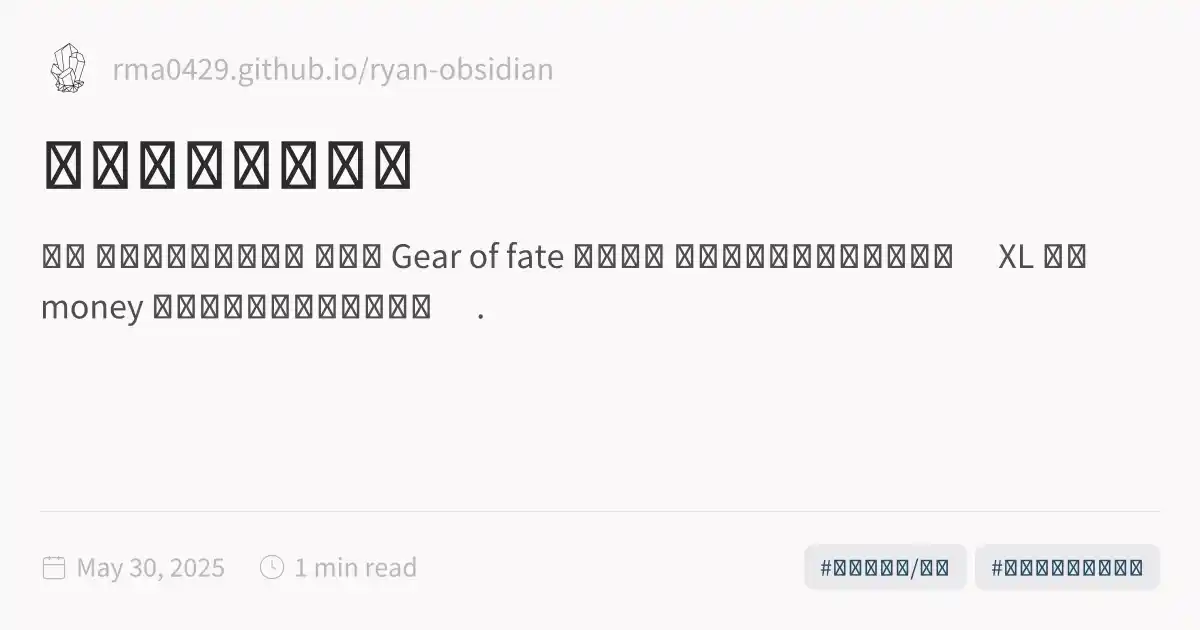
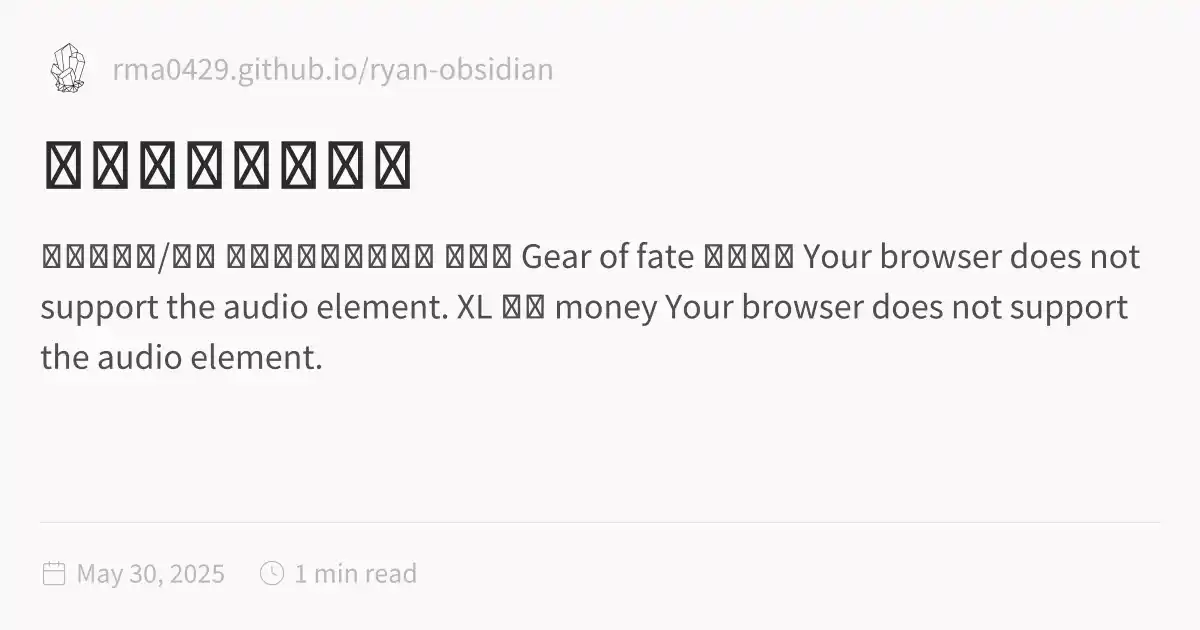
Deploy updated site

diff --git a/樂利錄音室作品集.html b/樂利錄音室作品集.html
@@ -1,5 +1,5 @@
 <!DOCTYPE html>
-<html lang="en"><head><title>樂利錄音室作品集</title><meta charset="utf-8"/><link rel="preconnect" href="https://fonts.googleapis.com"/><link rel="preconnect" href="https://fonts.gstatic.com"/><link rel="stylesheet" href="https://fonts.googleapis.com/css2?family=Schibsted Grotesk:wght@400;700&amp;family=Source Sans Pro:ital,wght@0,400;0,600;1,400;1,600&amp;family=IBM Plex Mono:wght@400;600&amp;display=swap"/><link rel="preconnect" href="https://cdnjs.cloudflare.com" crossorigin="anonymous"/><meta name="viewport" content="width=device-width, initial-scale=1.0"/><meta name="og:site_name" content="Ryan-Obsidian"/><meta property="og:title" content="樂利錄音室作品集"/><meta property="og:type" content="website"/><meta name="twitter:card" content="summary_large_image"/><meta name="twitter:title" content="樂利錄音室作品集"/><meta name="twitter:description" content="單曲 已發行影視遊戲配樂 交響樂 Gear of fate 命運齒輪 您的瀏覽器不支援音頻播放。 XL 中性 money 您的瀏覽器不支援音頻播放。 ."/><meta property="og:description" content="單曲 已發行影視遊戲配樂 交響樂 Gear of fate 命運齒輪 您的瀏覽器不支援音頻播放。 XL 中性 money 您的瀏覽器不支援音頻播放。 ."/><meta property="og:image:alt" content="單曲 已發行影視遊戲配樂 交響樂 Gear of fate 命運齒輪 您的瀏覽器不支援音頻播放。 XL 中性 money 您的瀏覽器不支援音頻播放。 ."/><meta property="twitter:domain" content="rma0429.github.io/ryan-obsidian"/><meta property="og:url" content="https://rma0429.github.io/ryan-obsidian/樂利錄音室作品集"/><meta property="twitter:url" content="https://rma0429.github.io/ryan-obsidian/樂利錄音室作品集"/><link rel="icon" href="./static/icon.png"/><meta name="description" content="單曲 已發行影視遊戲配樂 交響樂 Gear of fate 命運齒輪 您的瀏覽器不支援音頻播放。 XL 中性 money 您的瀏覽器不支援音頻播放。 ."/><meta name="generator" content="Quartz"/><link href="./index.css" rel="stylesheet" type="text/css" spa-preserve/><style>.expand-button {
+<html lang="en"><head><title>樂利錄音室作品集</title><meta charset="utf-8"/><link rel="preconnect" href="https://fonts.googleapis.com"/><link rel="preconnect" href="https://fonts.gstatic.com"/><link rel="stylesheet" href="https://fonts.googleapis.com/css2?family=Schibsted Grotesk:wght@400;700&amp;family=Source Sans Pro:ital,wght@0,400;0,600;1,400;1,600&amp;family=IBM Plex Mono:wght@400;600&amp;display=swap"/><link rel="preconnect" href="https://cdnjs.cloudflare.com" crossorigin="anonymous"/><meta name="viewport" content="width=device-width, initial-scale=1.0"/><meta name="og:site_name" content="Ryan-Obsidian"/><meta property="og:title" content="樂利錄音室作品集"/><meta property="og:type" content="website"/><meta name="twitter:card" content="summary_large_image"/><meta name="twitter:title" content="樂利錄音室作品集"/><meta name="twitter:description" content="已發行專輯/單曲 已發行影視遊戲配樂 交響樂 Gear of fate 命運齒輪 Your browser does not support the audio element. XL 中性 money Your browser does not support the audio element."/><meta property="og:description" content="已發行專輯/單曲 已發行影視遊戲配樂 交響樂 Gear of fate 命運齒輪 Your browser does not support the audio element. XL 中性 money Your browser does not support the audio element."/><meta property="og:image:alt" content="已發行專輯/單曲 已發行影視遊戲配樂 交響樂 Gear of fate 命運齒輪 Your browser does not support the audio element. XL 中性 money Your browser does not support the audio element."/><meta property="twitter:domain" content="rma0429.github.io/ryan-obsidian"/><meta property="og:url" content="https://rma0429.github.io/ryan-obsidian/樂利錄音室作品集"/><meta property="twitter:url" content="https://rma0429.github.io/ryan-obsidian/樂利錄音室作品集"/><link rel="icon" href="./static/icon.png"/><meta name="description" content="已發行專輯/單曲 已發行影視遊戲配樂 交響樂 Gear of fate 命運齒輪 Your browser does not support the audio element. XL 中性 money Your browser does not support the audio element."/><meta name="generator" content="Quartz"/><link href="./index.css" rel="stylesheet" type="text/css" spa-preserve/><style>.expand-button {
   position: absolute;
   display: flex;
   float: right;
@@ -116,18 +116,18 @@ pre:hover > .expand-button {
   padding: 0 12px;
   font-size: 14px;
 }
[1 lines of base64/hex data omitted]
-<p><a href="./tags/已發行影視遊戲配樂" class="tag-link internal alias" data-slug="tags/已發行影視遊戲配樂">已發行影視遊戲配樂</a></p>
-<p>交響樂
-Gear of fate 命運齒輪
[1 lines of base64/hex data omitted]
+<h3 id="已發行影視遊戲配樂">已發行影視遊戲配樂<a role="anchor" aria-hidden="true" tabindex="-1" data-no-popover="true" href="#已發行影視遊戲配樂" class="internal"><svg width="18" height="18" viewBox="0 0 24 24" fill="none" stroke="currentColor" stroke-width="2" stroke-linecap="round" stroke-linejoin="round"><path d="M10 13a5 5 0 0 0 7.54.54l3-3a5 5 0 0 0-7.07-7.07l-1.72 1.71"></path><path d="M14 11a5 5 0 0 0-7.54-.54l-3 3a5 5 0 0 0 7.07 7.07l1.71-1.71"></path></svg></a></h3>
+<h2 id="交響樂">交響樂<a role="anchor" aria-hidden="true" tabindex="-1" data-no-popover="true" href="#交響樂" class="internal"><svg width="18" height="18" viewBox="0 0 24 24" fill="none" stroke="currentColor" stroke-width="2" stroke-linecap="round" stroke-linejoin="round"><path d="M10 13a5 5 0 0 0 7.54.54l3-3a5 5 0 0 0-7.07-7.07l-1.72 1.71"></path><path d="M14 11a5 5 0 0 0-7.54-.54l-3 3a5 5 0 0 0 7.07 7.07l1.71-1.71"></path></svg></a></h2>
+<p>Gear of fate 命運齒輪
 <audio controls>
-<source src="https://rma0429.github.io/ryan-obsidian/audio/Gear of fate.mp3" type="audio/mpeg"/>
-您的瀏覽器不支援音頻播放。
+<source src="audio/Gear of fate.mp3" type="audio/mpeg"/>
+Your browser does not support the audio element.
 </audio></p>
 <p>XL 中性 money
 <audio controls>
-<source src="audio/XL Money.mp3" type="audio/mpeg"/>
-您的瀏覽器不支援音頻播放。
+<source src="/audio/XL Money.mp3" type="audio/mpeg"/>
+Your browser does not support the audio element.
 </audio></p></article><hr/><div class="page-footer"></div></div><div class="right sidebar"><div class="graph"><h3>Graph View</h3><div class="graph-outer"><div class="graph-container" data-cfg="{&quot;drag&quot;:true,&quot;zoom&quot;:true,&quot;depth&quot;:1,&quot;scale&quot;:1.1,&quot;repelForce&quot;:0.5,&quot;centerForce&quot;:0.3,&quot;linkDistance&quot;:30,&quot;fontSize&quot;:0.6,&quot;opacityScale&quot;:1,&quot;showTags&quot;:true,&quot;removeTags&quot;:[],&quot;focusOnHover&quot;:false,&quot;enableRadial&quot;:false}"></div><button class="global-graph-icon" aria-label="Global Graph"><svg version="1.1" xmlns="http://www.w3.org/2000/svg" xmlns:xlink="http://www.w3.org/1999/xlink" x="0px" y="0px" viewBox="0 0 55 55" fill="currentColor" xml:space="preserve"><path d="M49,0c-3.309,0-6,2.691-6,6c0,1.035,0.263,2.009,0.726,2.86l-9.829,9.829C32.542,17.634,30.846,17,29,17
                 s-3.542,0.634-4.898,1.688l-7.669-7.669C16.785,10.424,17,9.74,17,9c0-2.206-1.794-4-4-4S9,6.794,9,9s1.794,4,4,4
                 c0.74,0,1.424-0.215,2.019-0.567l7.669,7.669C21.634,21.458,21,23.154,21,25s0.634,3.542,1.688,4.897L10.024,42.562
@@ -138,6 +138,6 @@ Gear of fate 命運齒輪
                 C46.042,11.405,47.451,12,49,12c3.309,0,6-2.691,6-6S52.309,0,49,0z M11,9c0-1.103,0.897-2,2-2s2,0.897,2,2s-0.897,2-2,2
                 S11,10.103,11,9z M6,51c-2.206,0-4-1.794-4-4s1.794-4,4-4s4,1.794,4,4S8.206,51,6,51z M33,49c0,2.206-1.794,4-4,4s-4-1.794-4-4
                 s1.794-4,4-4S33,46.794,33,49z M29,31c-3.309,0-6-2.691-6-6s2.691-6,6-6s6,2.691,6,6S32.309,31,29,31z M47,41c0,1.103-0.897,2-2,2
-                s-2-0.897-2-2s0.897-2,2-2S47,39.897,47,41z M49,10c-2.206,0-4-1.794-4-4s1.794-4,4-4s4,1.794,4,4S51.206,10,49,10z"></path></svg></button></div><div class="global-graph-outer"><div class="global-graph-container" data-cfg="{&quot;drag&quot;:true,&quot;zoom&quot;:true,&quot;depth&quot;:-1,&quot;scale&quot;:0.9,&quot;repelForce&quot;:0.5,&quot;centerForce&quot;:0.2,&quot;linkDistance&quot;:30,&quot;fontSize&quot;:0.6,&quot;opacityScale&quot;:1,&quot;showTags&quot;:true,&quot;removeTags&quot;:[],&quot;focusOnHover&quot;:true,&quot;enableRadial&quot;:true}"></div></div></div></div><footer class><p>Created with <a href="https://quartz.jzhao.xyz/">Quartz v4.5.0</a> © 2025</p><ul><li><a href="https://github.com/jackyzha0/quartz">GitHub</a></li><li><a href="https://discord.gg/cRFFHYye7t">Discord Community</a></li></ul></footer></div></div></body><script type="application/javascript">function n(){let t=this.parentElement;t.classList.toggle("is-collapsed");let e=t.getElementsByClassName("callout-content")[0];if(!e)return;let l=t.classList.contains("is-collapsed");e.style.gridTemplateRows=l?"0fr":"1fr"}function c(){let t=document.getElementsByClassName("callout is-collapsible");for(let e of t){let l=e.getElementsByClassName("callout-title")[0],s=e.getElementsByClassName("callout-content")[0];if(!l||!s)continue;l.addEventListener("click",n),window.addCleanup(()=>l.removeEventListener("click",n));let o=e.classList.contains("is-collapsed");s.style.gridTemplateRows=o?"0fr":"1fr"}}document.addEventListener("nav",c);
+                s-2-0.897-2-2s0.897-2,2-2S47,39.897,47,41z M49,10c-2.206,0-4-1.794-4-4s1.794-4,4-4s4,1.794,4,4S51.206,10,49,10z"></path></svg></button></div><div class="global-graph-outer"><div class="global-graph-container" data-cfg="{&quot;drag&quot;:true,&quot;zoom&quot;:true,&quot;depth&quot;:-1,&quot;scale&quot;:0.9,&quot;repelForce&quot;:0.5,&quot;centerForce&quot;:0.2,&quot;linkDistance&quot;:30,&quot;fontSize&quot;:0.6,&quot;opacityScale&quot;:1,&quot;showTags&quot;:true,&quot;removeTags&quot;:[],&quot;focusOnHover&quot;:true,&quot;enableRadial&quot;:true}"></div></div></div><div class="toc desktop-only"><button type="button" class="toc-header" aria-controls="toc-content" aria-expanded="true"><h3>Table of Contents</h3><svg xmlns="http://www.w3.org/2000/svg" width="24" height="24" viewBox="0 0 24 24" fill="none" stroke="currentColor" stroke-width="2" stroke-linecap="round" stroke-linejoin="round" class="fold"><polyline points="6 9 12 15 18 9"></polyline></svg></button><ul class="toc-content overflow" id="list-1"><li class="depth-1"><a href="#已發行專輯單曲" data-for="已發行專輯單曲">已發行專輯/單曲</a></li><li class="depth-1"><a href="#已發行影視遊戲配樂" data-for="已發行影視遊戲配樂">已發行影視遊戲配樂</a></li><li class="depth-0"><a href="#交響樂" data-for="交響樂">交響樂</a></li><li class="overflow-end"></li></ul></div></div><footer class><p>Created with <a href="https://quartz.jzhao.xyz/">Quartz v4.5.0</a> © 2025</p><ul><li><a href="https://github.com/jackyzha0/quartz">GitHub</a></li><li><a href="https://discord.gg/cRFFHYye7t">Discord Community</a></li></ul></footer></div></div></body><script type="application/javascript">function n(){let t=this.parentElement;t.classList.toggle("is-collapsed");let e=t.getElementsByClassName("callout-content")[0];if(!e)return;let l=t.classList.contains("is-collapsed");e.style.gridTemplateRows=l?"0fr":"1fr"}function c(){let t=document.getElementsByClassName("callout is-collapsible");for(let e of t){let l=e.getElementsByClassName("callout-title")[0],s=e.getElementsByClassName("callout-content")[0];if(!l||!s)continue;l.addEventListener("click",n),window.addCleanup(()=>l.removeEventListener("click",n));let o=e.classList.contains("is-collapsed");s.style.gridTemplateRows=o?"0fr":"1fr"}}document.addEventListener("nav",c);
 </script><script type="module">function f(i,e){if(!i)return;function r(o){o.target===this&&(o.preventDefault(),o.stopPropagation(),e())}function t(o){o.key.startsWith("Esc")&&(o.preventDefault(),e())}i?.addEventListener("click",r),window.addCleanup(()=>i?.removeEventListener("click",r)),document.addEventListener("keydown",t),window.addCleanup(()=>document.removeEventListener("keydown",t))}function y(i){for(;i.firstChild;)i.removeChild(i.firstChild)}var h=class{constructor(e,r){this.container=e;this.content=r;this.setupEventListeners(),this.setupNavigationControls(),this.resetTransform()}isDragging=!1;startPan={x:0,y:0};currentPan={x:0,y:0};scale=1;MIN_SCALE=.5;MAX_SCALE=3;cleanups=[];setupEventListeners(){let e=this.onMouseDown.bind(this),r=this.onMouseMove.bind(this),t=this.onMouseUp.bind(this),o=this.resetTransform.bind(this);this.container.addEventListener("mousedown",e),document.addEventListener("mousemove",r),document.addEventListener("mouseup",t),window.addEventListener("resize",o),this.cleanups.push(()=>this.container.removeEventListener("mousedown",e),()=>document.removeEventListener("mousemove",r),()=>document.removeEventListener("mouseup",t),()=>window.removeEventListener("resize",o))}cleanup(){for(let e of this.cleanups)e()}setupNavigationControls(){let e=document.createElement("div");e.className="mermaid-controls";let r=this.createButton("+",()=>this.zoom(.1)),t=this.createButton("-",()=>this.zoom(-.1)),o=this.createButton("Reset",()=>this.resetTransform());e.appendChild(t),e.appendChild(o),e.appendChild(r),this.container.appendChild(e)}createButton(e,r){let t=document.createElement("button");return t.textContent=e,t.className="mermaid-control-button",t.addEventListener("click",r),window.addCleanup(()=>t.removeEventListener("click",r)),t}onMouseDown(e){e.button===0&&(this.isDragging=!0,this.startPan={x:e.clientX-this.currentPan.x,y:e.clientY-this.currentPan.y},this.container.style.cursor="grabbing")}onMouseMove(e){this.isDragging&&(e.preventDefault(),this.currentPan={x:e.clientX-this.startPan.x,y:e.clientY-this.startPan.y},this.updateTransform())}onMouseUp(){this.isDragging=!1,this.container.style.cursor="grab"}zoom(e){let r=Math.min(Math.max(this.scale+e,this.MIN_SCALE),this.MAX_SCALE),t=this.content.getBoundingClientRect(),o=t.width/2,n=t.height/2,c=r-this.scale;this.currentPan.x-=o*c,this.currentPan.y-=n*c,this.scale=r,this.updateTransform()}updateTransform(){this.content.style.transform=`translate(${this.currentPan.x}px, ${this.currentPan.y}px) scale(${this.scale})`}resetTransform(){this.scale=1;let e=this.content.querySelector("svg");this.currentPan={x:e.getBoundingClientRect().width/2,y:e.getBoundingClientRect().height/2},this.updateTransform()}},C=["--secondary","--tertiary","--gray","--light","--lightgray","--highlight","--dark","--darkgray","--codeFont"],E;document.addEventListener("nav",async()=>{let e=document.querySelector(".center").querySelectorAll("code.mermaid");if(e.length===0)return;E||=await import("https://cdnjs.cloudflare.com/ajax/libs/mermaid/11.4.0/mermaid.esm.min.mjs");let r=E.default,t=new WeakMap;for(let n of e)t.set(n,n.innerText);async function o(){for(let s of e){s.removeAttribute("data-processed");let a=t.get(s);a&&(s.innerHTML=a)}let n=C.reduce((s,a)=>(s[a]=window.getComputedStyle(document.documentElement).getPropertyValue(a),s),{}),c=document.documentElement.getAttribute("saved-theme")==="dark";r.initialize({startOnLoad:!1,securityLevel:"loose",theme:c?"dark":"base",themeVariables:{fontFamily:n["--codeFont"],primaryColor:n["--light"],primaryTextColor:n["--darkgray"],primaryBorderColor:n["--tertiary"],lineColor:n["--darkgray"],secondaryColor:n["--secondary"],tertiaryColor:n["--tertiary"],clusterBkg:n["--light"],edgeLabelBackground:n["--highlight"]}}),await r.run({nodes:e})}await o(),document.addEventListener("themechange",o),window.addCleanup(()=>document.removeEventListener("themechange",o));for(let n=0;n<e.length;n++){let v=function(){let g=l.querySelector("#mermaid-space"),m=l.querySelector(".mermaid-content");if(!m)return;y(m);let w=c.querySelector("svg").cloneNode(!0);m.appendChild(w),l.classList.add("active"),g.style.cursor="grab",u=new h(g,m)},M=function(){l.classList.remove("active"),u?.cleanup(),u=null},c=e[n],s=c.parentElement,a=s.querySelector(".clipboard-button"),d=s.querySelector(".expand-button"),p=window.getComputedStyle(a),L=a.offsetWidth+parseFloat(p.marginLeft||"0")+parseFloat(p.marginRight||"0");d.style.right=`calc(${L}px + 0.3rem)`,s.prepend(d);let l=s.querySelector("#mermaid-container");if(!l)return;let u=null;d.addEventListener("click",v),f(l,M),window.addCleanup(()=>{u?.cleanup(),d.removeEventListener("click",v)})}});
 </script><script src="https://cdn.jsdelivr.net/npm/katex@0.16.11/dist/contrib/copy-tex.min.js" type="application/javascript"></script><script src="./postscript.js" type="module"></script></html>
